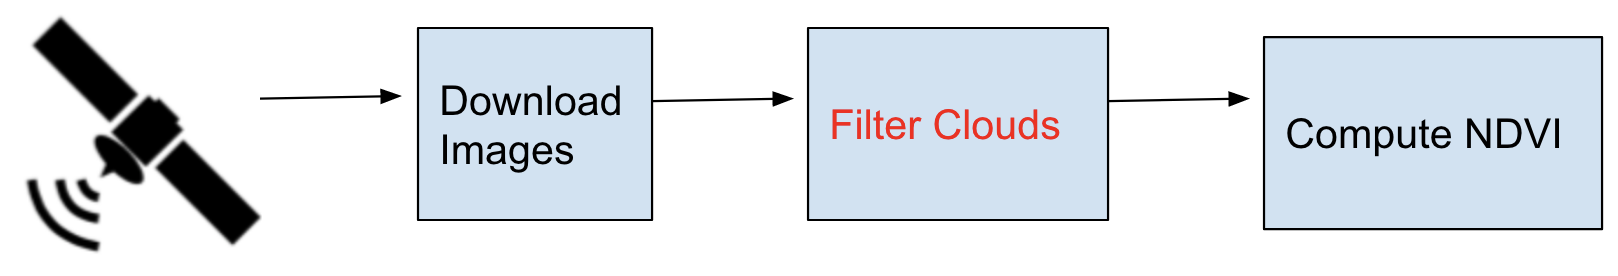
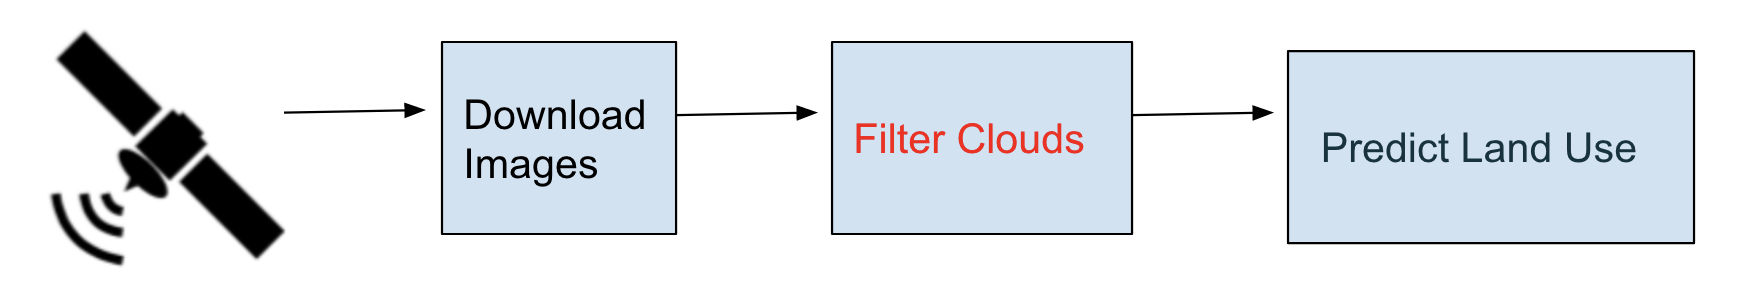
Added Prediction slides

Changed region(s): [[0.1545, 0.087, 1.0, 0.8406], [0.0, 0.058, 0.1854, 0.9275]]

diff --git a/index.html b/index.html
@@ -265,6 +265,7 @@
                 <li>Use Landsat8 Surface Reflectance data for computing cloud mask</li>
                 <li>Result: Each pixel is classified as 1 of {Vegetation, Barren, Snow/Ice, Water, Cloud} </li>
                 <li>Ignore the Cloud pixels</li>
+                <li>Compute NDVI from Bands B4 and B5, add to the feature vector</li>
             </ul>
         </section>
 
@@ -384,10 +385,10 @@
                 with beam.Pipeline(options=pipeline_options) as p:
                     filtered_images = (p | "Read Images" >> beam.Create(glob.glob(known_args.input + '*wms*' + '.png'))
                     | "Batch elements" >> beam.BatchElements(0, known_args.batchsize)3
-                    | "Filter Cloudy images" >> beam.ParDo(FilterCloudyFn.FilterCloudyFn(known_args.models)))
+                    | "Apply Cloud Mask" >> beam.ParDo(CloudMaskFn.CloudMaskFn()))
 
-                filtered_images | "Segment for Land use" >>
-                            beam.ParDo(UNetInference.UNetInferenceFn(known_args.models, known_args.output))
+                filtered_images | "Predict Land Use" >>
+                            beam.ParDo(Prediction.PredictionFn(known_args.models, known_args.output))
             </code></pre>
         </section>
 
